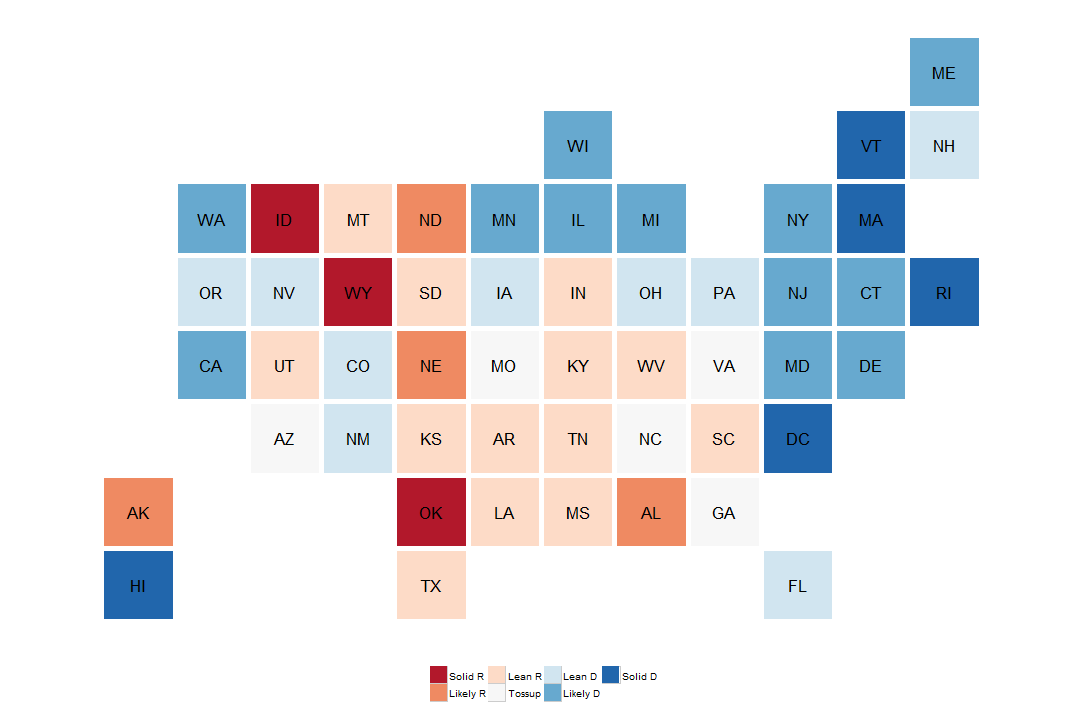
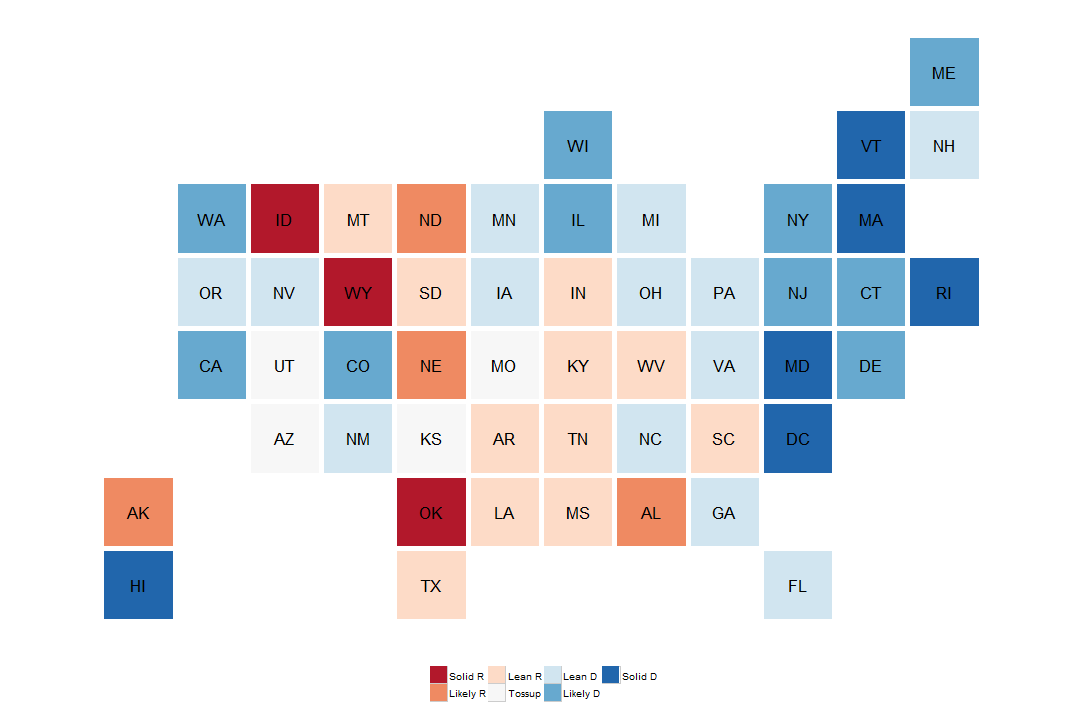
update

diff --git a/index.html b/index.html
@@ -154,17 +154,12 @@ th {
           <p></p>
           <p></p>
       <div class="container" style="text-align: center;">
-        <h1><div class="alert alert-info" role="alert">Hillary Clinton has a 75.8% chance of being president</div></h1>    
+        <h1><div class="alert alert-info" role="alert">Hillary Clinton has a 82% chance of being president</div></h1>    
       </div>
         </div>
           <div style="text-align:right;">
             <h5 id="demo">
-                    <script>
-                      var d = new Date();
-                      var str = "Updated"
-                      var sentence = str + " " + d.toDateString();
-                      document.getElementById("demo").innerHTML = sentence
-                    </script> 
+              Updated 2016-08-05
             </h5>
           </div>  
       </div>
@@ -178,7 +173,7 @@ th {
 
       <div class="row">
         <div class="span12">
-          <p class="lead">Presidential elections are all about who can get to 270 electoral votes. After simulating the election ten-thousand times, the model predicts a <b>300-238</b> electoral win for <b>Hillary Clinton</b>.</p>
+          <p class="lead">Presidential elections are all about who can get to 270 electoral votes. After simulating the election ten-thousand times, the model predicts a <b>312-226</b> electoral win for <b>Hillary Clinton</b>.</p>
         </div>
       </div>
       
@@ -214,7 +209,7 @@ th {
           <center>
             <h1>State-by-State Trends</h1>
           </center>
-          <p class="lead">Odds of a candidate's victory are updated whenever new polling information is available. Here's how the chances have evolved over time for states with enough polling data (states with insufficient polling can still be found in the Margins of Victory).</p>
+          <p class="lead">Odds of a candidate's victory are updated whenever new polling information is available. For states with enough polling data, here's how the chances have evolved over time.</p>
         </div>
       </div>
 
@@ -242,7 +237,7 @@ th {
           <center>
             <h1>Current Forecasts</h1>
           </center>
-          <p class="lead">Here are all of the current forecasts for the general election. The model predicts that Hillary Clinton will win 26 of 51 contests, including DC. </p>
+          <p class="lead">Here are all of the current forecasts for the general election. The model predicts that Hillary Clinton will win 29 of 51 electoral contests (remember, DC gets 3 electoral votes). </p>
         </div>
       </div>
       
@@ -273,8 +268,8 @@ th {
             <td>Arizona</td>
             <td>11</td>
             <td>Trump</td>
-            <td>73.8%</td>
-            <td>+6.7</td>
+            <td>69.9%</td>
+            <td>+4.1</td>
           </tr>
           <tr>
             <td>Arkansas</td>
@@ -287,15 +282,15 @@ th {
             <td>California</td>
             <td>55</td>
             <td>Clinton</td>
-            <td>96.6%</td>
-            <td>+16.2</td>
+            <td>95.4%</td>
+            <td>+16.1</td>
           </tr>
           <tr>
             <td>Colorado</td>
             <td>9</td>
             <td>Clinton</td>
-            <td>70%</td>
-            <td>+4.9</td>
+            <td>92%</td>
+            <td>+10</td>
           </tr>
           <tr>
             <td>Connecticut</td>
@@ -322,15 +317,15 @@ th {
             <td>Florida</td>
             <td>29</td>
             <td>Clinton</td>
-            <td>65.4%</td>
-            <td>+3.7</td>
+            <td>63%</td>
+            <td>+2.7</td>
           </tr>
           <tr>
             <td>Georgia</td>
             <td>16</td>
-            <td>Trump</td>
-            <td>59.8%</td>
-            <td>+2.2</td>
+            <td>Clinton</td>
+            <td>50.3%</td>
+            <td>+0.1</td>
           </tr>
           <tr>
             <td>Hawaii</td>
@@ -364,15 +359,15 @@ th {
             <td>Iowa</td>
             <td>6</td>
             <td>Clinton</td>
-            <td>71.6%</td>
-            <td>+5.8</td>
+            <td>86.3%</td>
+            <td>+7.6</td>
           </tr>
           <tr>
             <td>Kansas</td>
             <td>6</td>
             <td>Trump</td>
-            <td>93.1%</td>
-            <td>+13.3</td>
+            <td>77.8%</td>
+            <td>+6.1</td>
           </tr>
           <tr>
             <td>Kentucky</td>
@@ -399,8 +394,8 @@ th {
             <td>Maryland</td>
             <td>10</td>
             <td>Clinton</td>
-            <td>95.5%</td>
-            <td>+17.2</td>
+            <td>96.3%</td>
+            <td>+20.2</td>
           </tr>
           <tr>
             <td>Massachusetts</td>
@@ -413,15 +408,15 @@ th {
             <td>Michigan</td>
             <td>16</td>
             <td>Clinton</td>
-            <td>86.9%</td>
-            <td>+10.4</td>
+            <td>90.3%</td>
+            <td>+9.6</td>
           </tr>
           <tr>
             <td>Minnesota</td>
             <td>10</td>
             <td>Clinton</td>
-            <td>84.8%</td>
-            <td>+11</td>
+            <td>82.7%</td>
+            <td>+6</td>
           </tr>
           <tr>
             <td>Mississippi</td>
@@ -434,8 +429,8 @@ th {
             <td>Missouri</td>
             <td>10</td>
             <td>Trump</td>
-            <td>81.4%</td>
-            <td>+7.7</td>
+            <td>76%</td>
+            <td>+5</td>
           </tr>
           <tr>
             <td>Montana</td>
@@ -455,22 +450,22 @@ th {
             <td>Nevada</td>
             <td>6</td>
             <td>Clinton</td>
-            <td>50.3%</td>
-            <td>+0.1</td>
+            <td>70.5%</td>
+            <td>+4.1</td>
           </tr>
           <tr>
             <td>New Hampshire</td>
             <td>4</td>
             <td>Clinton</td>
-            <td>79.3%</td>
-            <td>+7.2</td>
+            <td>85.3%</td>
+            <td>+7.3</td>
           </tr>
           <tr>
             <td>New Jersey</td>
             <td>14</td>
             <td>Clinton</td>
-            <td>93.1%</td>
-            <td>+12.5</td>
+            <td>92.7%</td>
+            <td>+11.4</td>
           </tr>
           <tr>
             <td>New Mexico</td>
@@ -483,15 +478,15 @@ th {
             <td>New York</td>
             <td>29</td>
             <td>Clinton</td>
-            <td>90.5%</td>
-            <td>+14.8</td>
+            <td>96.3%</td>
+            <td>+15.1</td>
           </tr>
           <tr>
             <td>North Carolina</td>
             <td>15</td>
-            <td>Trump</td>
-            <td>56.7%</td>
-            <td>+1.6</td>
+            <td>Clinton</td>
+            <td>61%</td>
+            <td>+2.3</td>
           </tr>
           <tr>
             <td>North Dakota</td>
@@ -504,8 +499,8 @@ th {
             <td>Ohio</td>
             <td>18</td>
             <td>Clinton</td>
-            <td>69.1%</td>
-            <td>+4.6</td>
+            <td>86.5%</td>
+            <td>+8.1</td>
           </tr>
           <tr>
             <td>Oklahoma</td>
@@ -525,8 +520,8 @@ th {
             <td>Pennsylvania</td>
             <td>20</td>
             <td>Clinton</td>
-            <td>79%</td>
-            <td>+8.2</td>
+            <td>89.1%</td>
+            <td>+9</td>
           </tr>
           <tr>
             <td>Rhode Island</td>
@@ -567,8 +562,8 @@ th {
             <td>Utah</td>
             <td>6</td>
             <td>Trump</td>
-            <td>86.4%</td>
-            <td>+10.5</td>
+            <td>80.1%</td>
+            <td>+6.9</td>
           </tr>
           <tr>
             <td>Vermont</td>
@@ -580,9 +575,9 @@ th {
           <tr>
             <td>Virginia</td>
             <td>13</td>
-            <td>Trump</td>
-            <td>51.5%</td>
-            <td>+0.4</td>
+            <td>Clinton</td>
+            <td>90.3%</td>
+            <td>+9.6</td>
           </tr>
           <tr>
             <td>Washington</td>
@@ -602,8 +597,8 @@ th {
             <td>Wisconsin</td>
             <td>10</td>
             <td>Clinton</td>
-            <td>89.4%</td>
-            <td>+12.6</td>
+            <td>91.9%</td>
+            <td>+10.3</td>
           </tr>
           <tr>
             <td>Wyoming</td>
